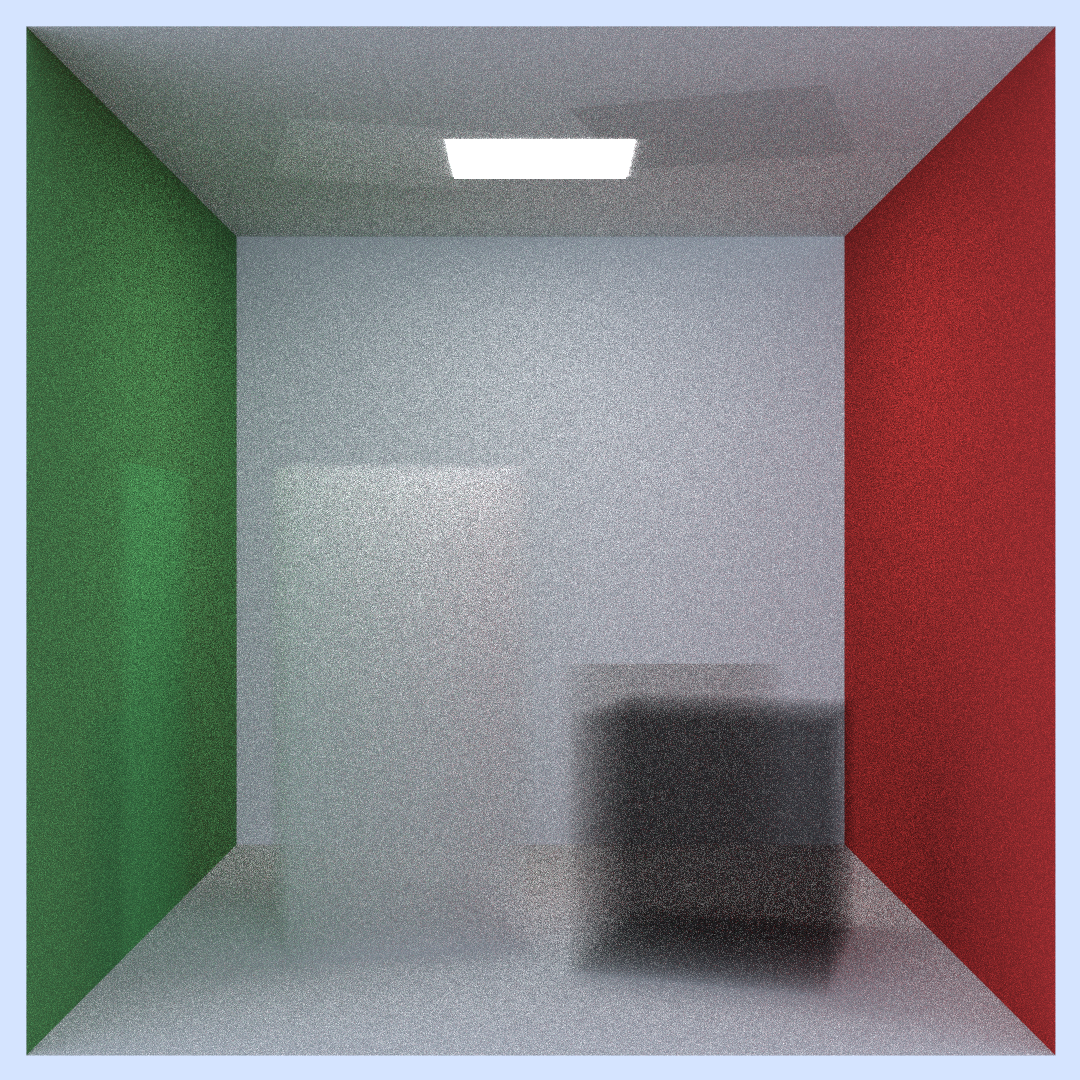
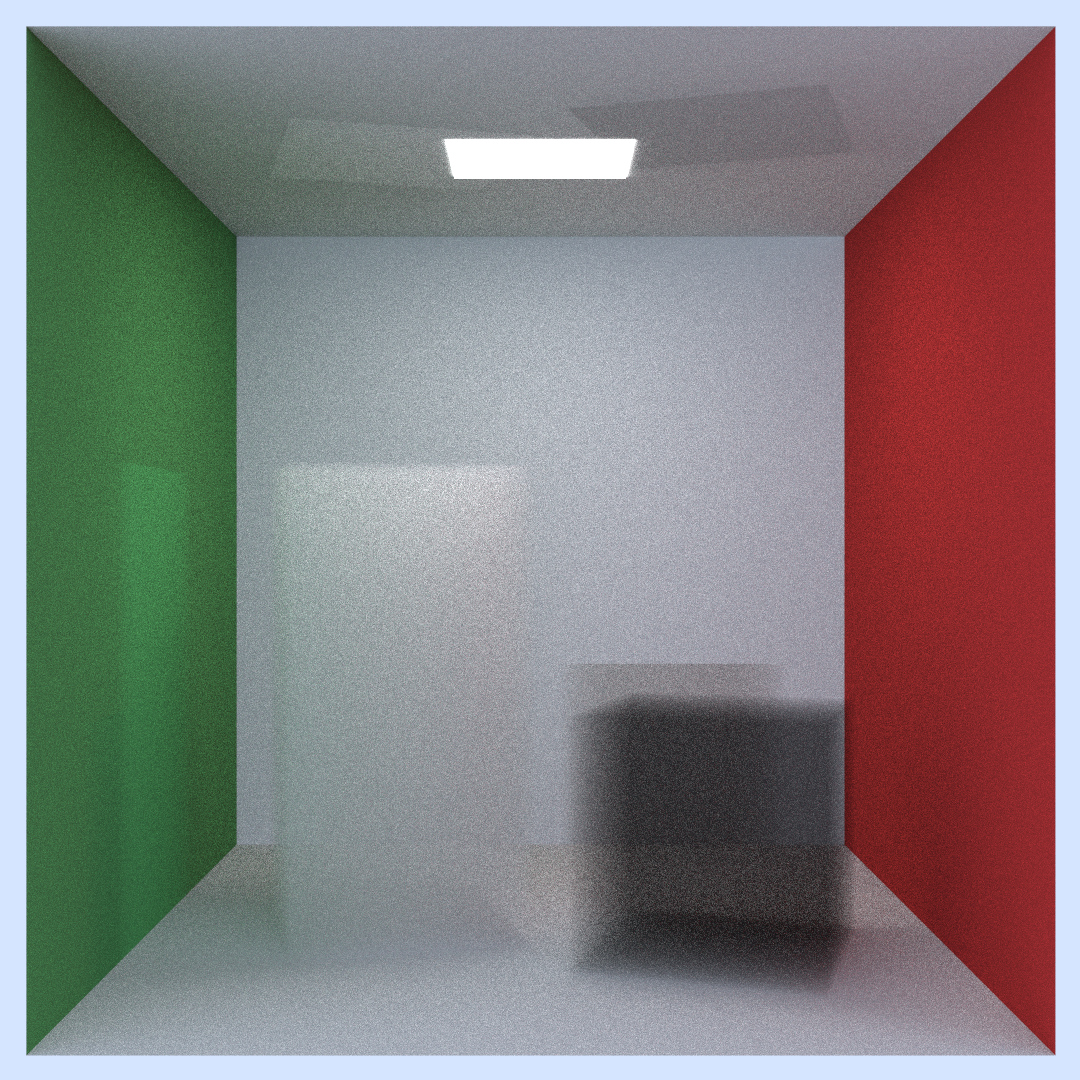
Increase smoke test scene sampling

Changed region(s): [[0.0306, 0.0306, 0.9778, 0.9778], [0.0611, 0.7028, 0.0917, 0.7333]]

diff --git a/src/main.rs b/src/main.rs
@@ -262,8 +262,8 @@ fn render_cornell_smoke() {
         position: Vec3::new(278, 278, -800),
         view_target: Vec3::new(278, 278, 0),
         vertical_fov: 40.0,
-        samples: 200,
-        max_depth: 50,
+        samples: 500,
+        max_depth: 100,
         ..Default::default()
     });
 
